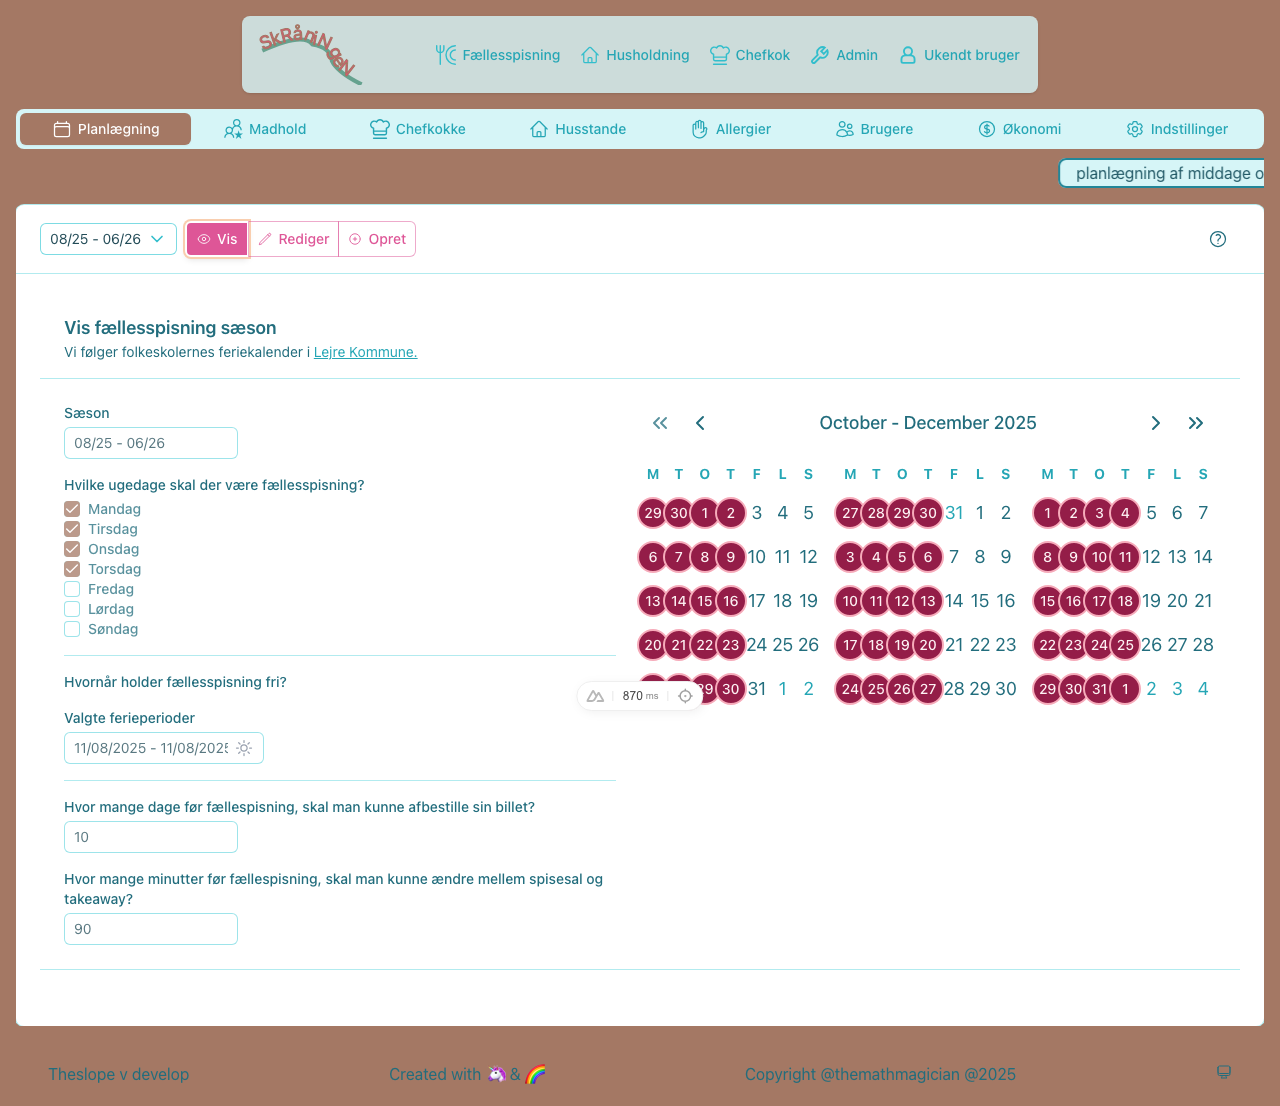
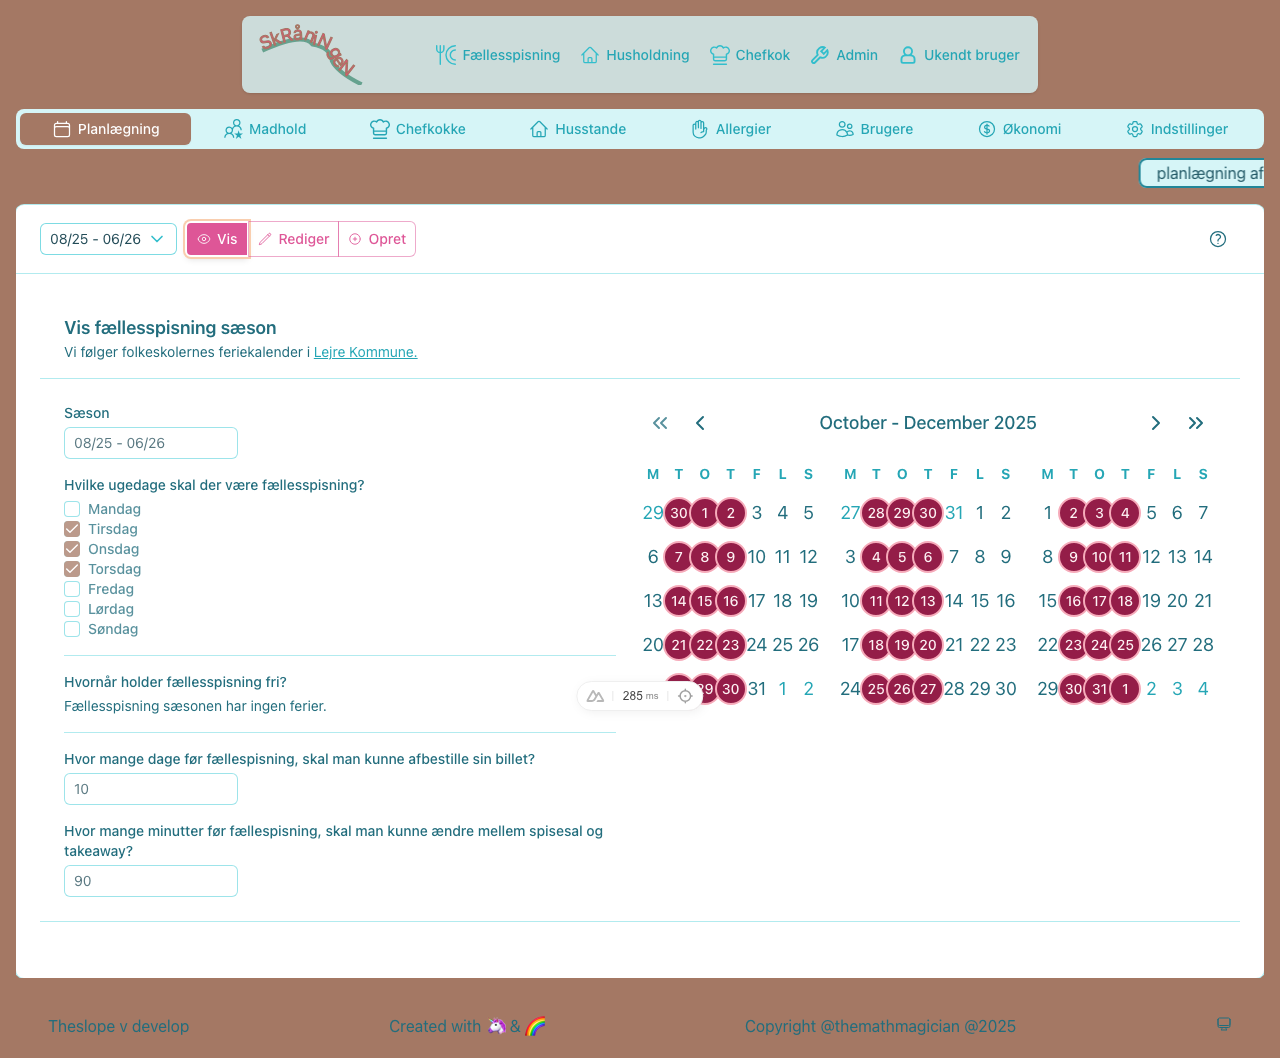
Fixed generateDinnerEvents e2e test by adding exponential backoff poller to test. Updated form submission bug for season - use model directly

diff --git a/tests/e2e/testDataFactories/dinnerEventFactory.ts b/tests/e2e/testDataFactories/dinnerEventFactory.ts
@@ -112,4 +112,46 @@ export class DinnerEventFactory {
 
         return []
     }
+
+    /**
+     * Wait for dinner events to be generated for a season
+     * Polls the API with exponential backoff until the expected number of events are created
+     *
+     * @param context - Browser context for API requests
+     * @param seasonId - Season ID to check
+     * @param expectedCount - Expected number of events
+     * @param maxAttempts - Maximum polling attempts (default 5)
+     * @param initialDelayMs - Initial delay between attempts in ms (default 500ms), doubles on each attempt
+     * @returns Promise<DinnerEvent[]> - Array of generated dinner events
+     * @throws Error if expected count not reached within maxAttempts
+     */
+    static readonly waitForDinnerEventsGeneration = async (
+        context: BrowserContext,
+        seasonId: number,
+        expectedCount: number,
+        maxAttempts: number = 5,
+        initialDelayMs: number = 500
+    ): Promise<DinnerEvent[]> => {
+        let currentDelay = initialDelayMs
+
+        for (let attempt = 1; attempt <= maxAttempts; attempt++) {
+            const events = await this.getDinnerEventsForSeason(context, seasonId)
+
+            if (events.length === expectedCount) {
+                console.info(`✅ Dinner events generated: ${events.length}/${expectedCount} (attempt ${attempt}/${maxAttempts})`)
+                return events
+            }
+
+            if (attempt < maxAttempts) {
+                console.info(`⏳ Waiting for dinner events: ${events.length}/${expectedCount} (attempt ${attempt}/${maxAttempts}, delay ${currentDelay}ms)`)
+                await new Promise(resolve => setTimeout(resolve, currentDelay))
+                currentDelay *= 2 // Exponential backoff
+            }
+        }
+
+        throw new Error(
+            `Timeout waiting for dinner events to be generated. ` +
+            `Expected ${expectedCount} events for season ${seasonId}, but generation did not complete within ${maxAttempts} attempts`
+        )
+    }
 }

diff --git a/tests/e2e/ui/AdminPlanningSeason.e2e.spec.ts b/tests/e2e/ui/AdminPlanningSeason.e2e.spec.ts
@@ -119,7 +119,12 @@ test.describe('AdminPlanningSeason Form UI', () => {
             const deserializedSeason = deserializeSeason(createdSeason)
             const expectedEventCount = calculateExpectedEventCount(deserializedSeason)
 
-            const dinnerEvents = await DinnerEventFactory.getDinnerEventsForSeason(context, createdSeason.id!)
+            // Wait for async dinner event generation to complete
+            const dinnerEvents = await DinnerEventFactory.waitForDinnerEventsGeneration(
+                context,
+                createdSeason.id!,
+                expectedEventCount
+            )
             expect(dinnerEvents.length).toBe(expectedEventCount)
         }
     })

diff --git a/app/components/admin/planning/AdminPlanningSeason.vue b/app/components/admin/planning/AdminPlanningSeason.vue
@@ -47,8 +47,8 @@ const formTitle = computed(() => {
 
 // ACTIONS
 const onSubmitSeason = (event: FormSubmitEvent<Season>) => {
-  const formData = {...event.data}
-  emit('update', formData)
+  // Use model.value directly instead of event.data to ensure v-model changes are included
+  emit('update', model.value)
 }
 
 // UI METHODS
